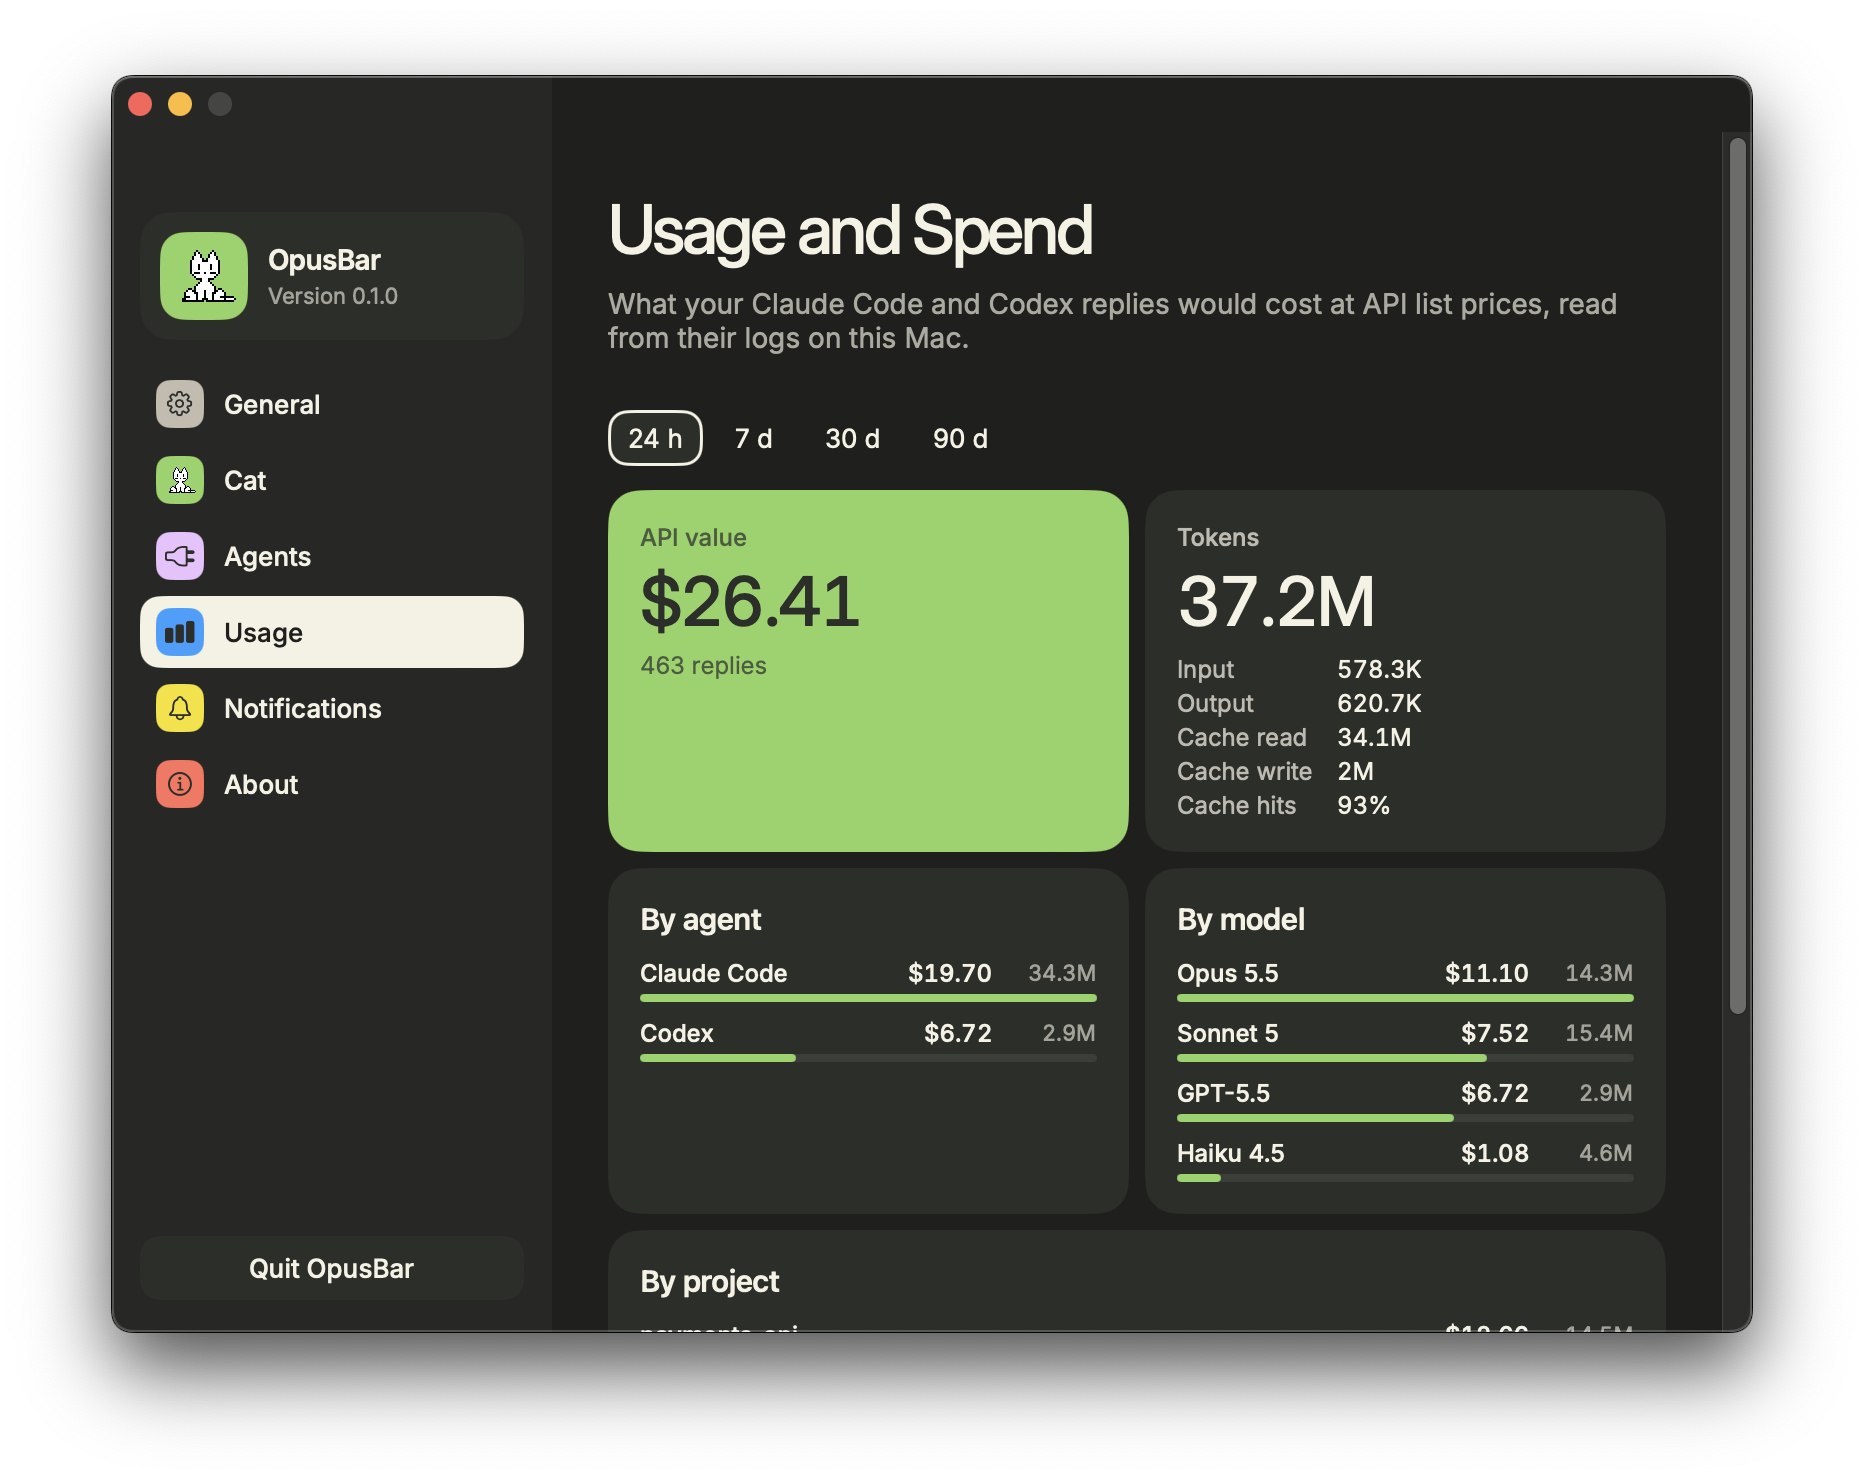
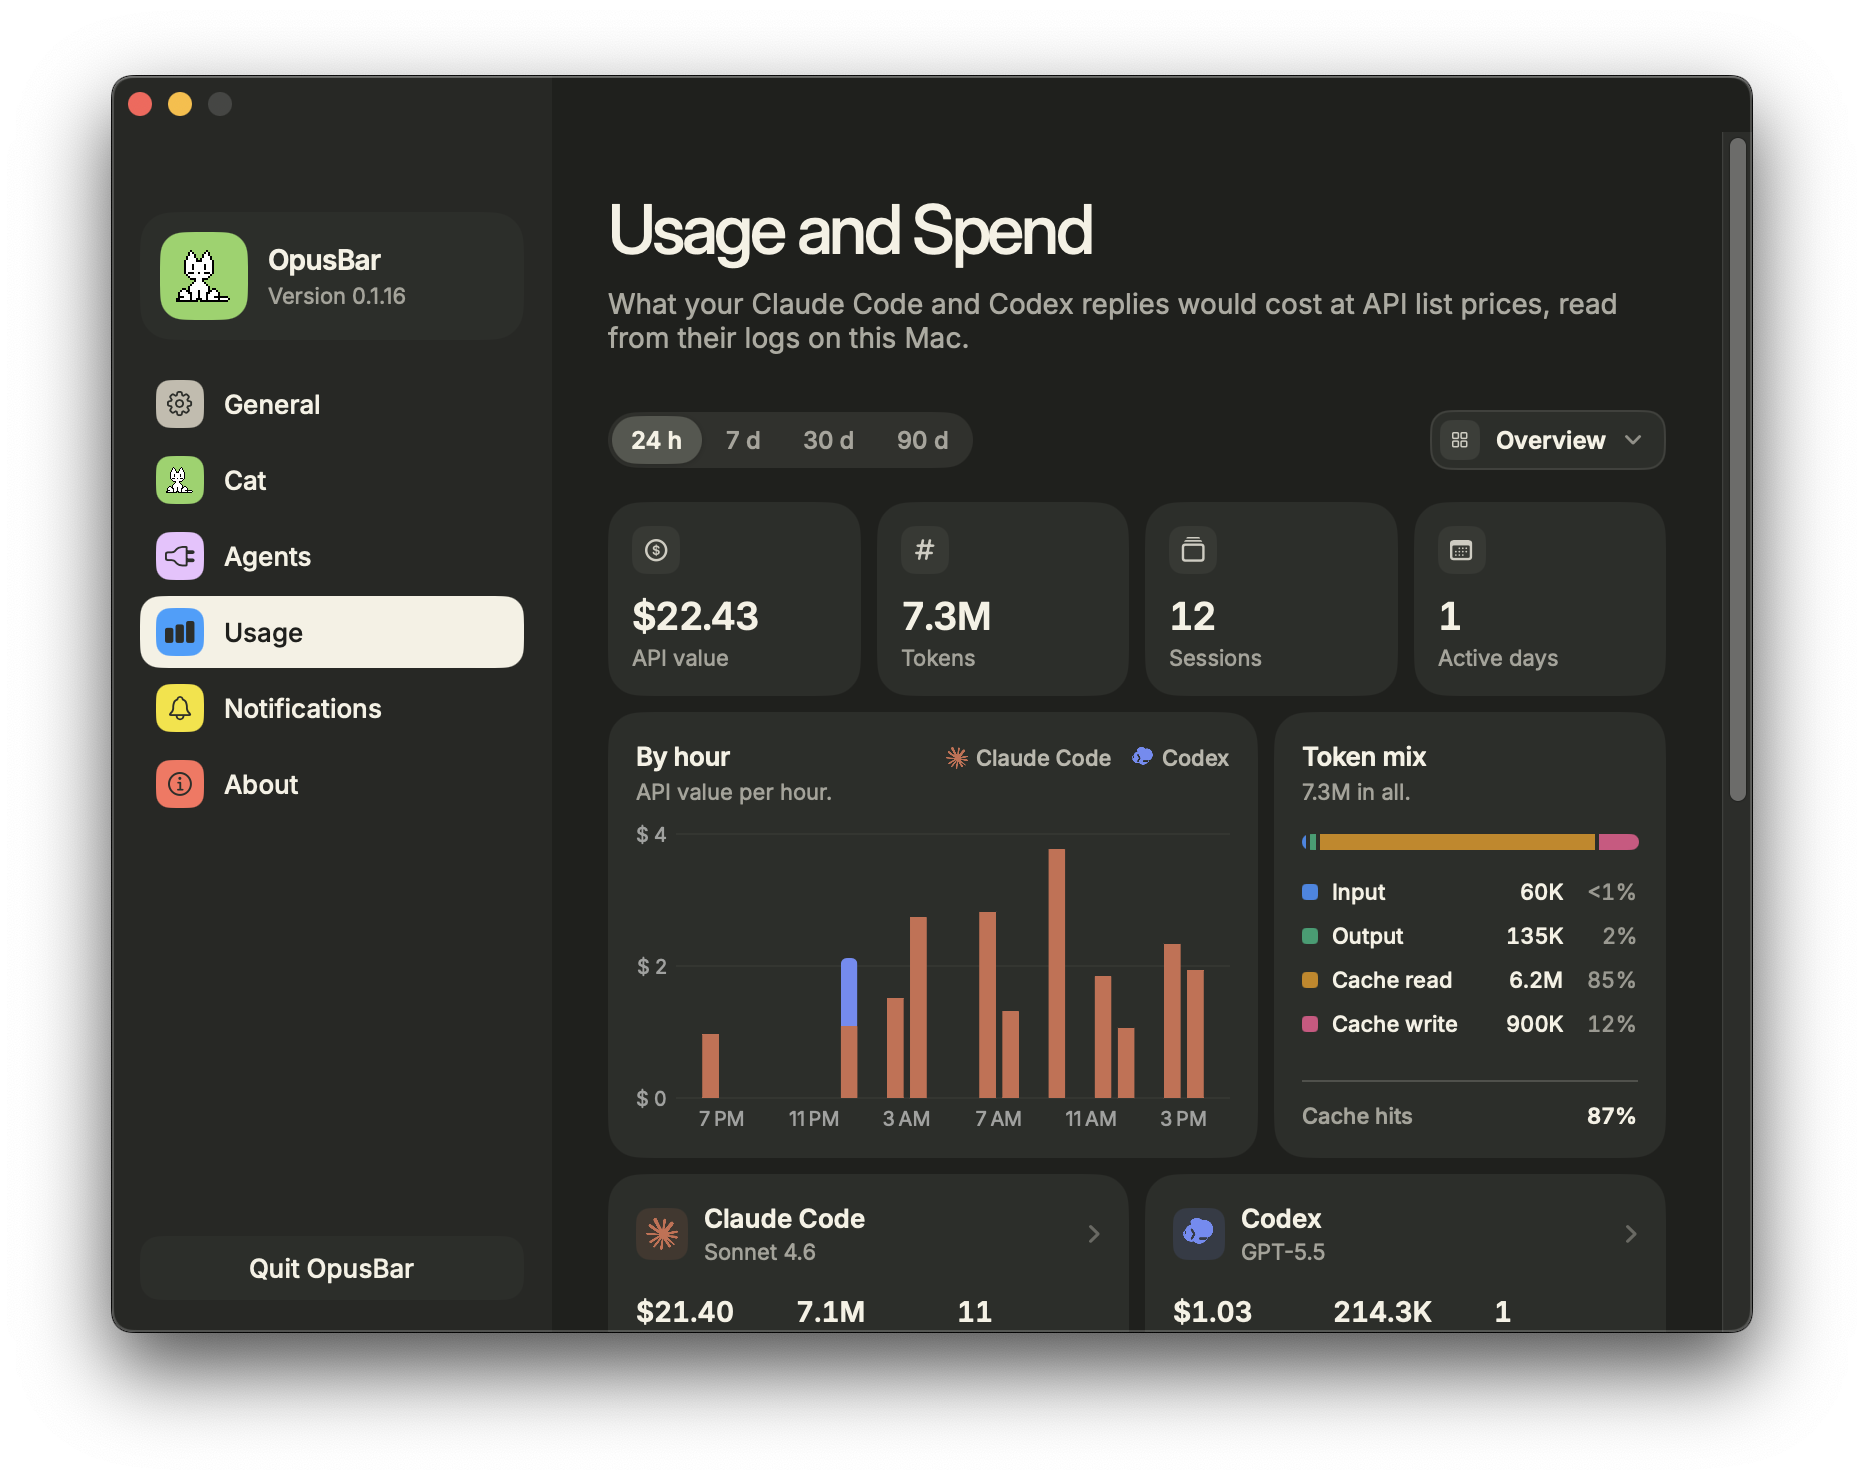
Update README screenshots and text for 0.1.16
New Sessions, Usage and Settings › Usage screenshots from the 0.1.16 redesign, taken with --demo. README text for session cards, plan limits, billing and usage now matches the changelog.

diff --git a/README.md b/README.md
@@ -40,12 +40,12 @@ OpusBar puts every running session in your menu bar. The cat takes on the state 
 | yawning | **stuck on an error** |
 | sitting | **idle** |
 
-A badge on the cat counts the sessions waiting for you, or marks one that finished or failed. Click the cat for the full list: each session's folder, git branch, permission mode and how long it has been running. The Claude or Codex logo in the corner carries a small badge for how that session pays.
+A badge on the cat counts the sessions waiting for you, or marks one that finished or failed. Click the cat for the full list, sessions that need you on top. Each card shows the project, what it is doing and for how long, with the Claude or Codex logo as a badge on the cat. Tap a card for its folder, terminal, tokens and billing, and to open its folder, copy its path or bring its terminal forward.
 
 <p align="center">
-  <img src="docs/assets/menu-sessions.png" width="340" alt="The OpusBar menu, Sessions tab: payments-api needs you to allow Bash; web-app, infra and ml-pipeline are working or thinking; design-system and search-service are done. Each row ends with its elapsed time and the agent logo, badged for a subscription, API billing, Amazon Bedrock, Google Vertex AI or Microsoft Foundry">
+  <img src="docs/assets/menu-sessions.png" width="340" alt="The OpusBar menu, Sessions tab: under Attention, payments-api needs you to allow Bash; under Active, design-system and search-service are done, infra and web-app are working and ml-pipeline is thinking. Each card shows its elapsed time and the agent's logo as a badge on the cat">
   &nbsp;
-  <img src="docs/assets/menu-usage.png" width="340" alt="The OpusBar menu, Usage tab: plan limits for two Claude Code profiles and Codex with time to reset, a Bedrock profile billed per use, then the API value chart">
+  <img src="docs/assets/menu-usage.png" width="340" alt="The OpusBar menu, Usage tab: 5-hour and weekly limits side by side for two Claude Code profiles and Codex, each with when it renews, a Bedrock profile billed per use, then the API value">
 </p>
 
 <p align="center"><sub>The menu: every session, and your limits and spend one tab over. Sample data.</sub></p>
@@ -62,20 +62,20 @@ A notification when a session needs you or hits an error. Finished sessions can 
 
 ### Plan limits
 
-Your 5-hour and weekly windows for every Claude Code and Codex account, with the time each one resets. OpusBar warns at 80% and 95% and tells you when a window renews. Work and personal profiles, or a second `CODEX_HOME`, each keep their own limits. Claude figures refresh after every reply.
+Your 5-hour and weekly windows for every Claude Code and Codex account, with the time each one resets. OpusBar warns at 80% and 95% and tells you when a window renews. Work and personal profiles, or a second `CODEX_HOME`, each keep their own limits. Claude figures refresh after every reply. If your pace would use up a limit before it renews, the card says when it runs out.
 
 ### How each session pays
 
-Every session card shows its agent's logo with a small badge: a subscription, API billing, a custom endpoint, or the cloud it runs on (Amazon Bedrock, Google Vertex AI, Microsoft Foundry). OpusBar reads this from the agent's settings and environment, never a key. Settings › Agents names how each profile pays, and profiles billed per use get their own card in the Usage tab, since they have no plan limits.
+Tap a session card to see how it pays: a subscription, API billing, a custom endpoint, or the cloud it runs on (Amazon Bedrock, Google Vertex AI, Microsoft Foundry). OpusBar reads this from the agent's settings and environment, never a key. Settings › Agents names how each profile pays, and profiles billed per use get their own card in the Usage tab, since they have no plan limits.
 
 ### Usage and API value
 
-Tokens over the last 24 hours, 7, 30 or 90 days, split by agent, account, model and project, with a daily chart. Next to them is the *API value*: what the same tokens would cost at Anthropic's and OpenAI's list prices. On a subscription, that's what your plan is covering. It's read straight from your agents' own logs, so your history is there on first launch.
+Tokens over the last 24 hours, 7, 30 or 90 days, split by agent, account, model and project, with a chart over time and the token mix (input, output, cache read, cache write). Pick Overview, Claude Code or Codex to see one agent at a time. Next to them is the *API value*: what the same tokens would cost at Anthropic's and OpenAI's list prices. On a subscription, that's what your plan is covering. It's read straight from your agents' own logs, so your history is there on first launch.
 
 <p align="center">
   <picture>
     <source media="(prefers-color-scheme: dark)" srcset="docs/assets/settings-usage-dark.png">
-    <img src="docs/assets/settings-usage-light.png" width="720" alt="The Usage and Spend window: API value and token totals for the last 24 hours, with breakdowns by agent and by model">
+    <img src="docs/assets/settings-usage-light.png" width="720" alt="The Usage and Spend window: API value, tokens, sessions and active days for the last 24 hours, API value by hour for Claude Code and Codex, the token mix, then a card per agent">
   </picture>
 </p>
 
